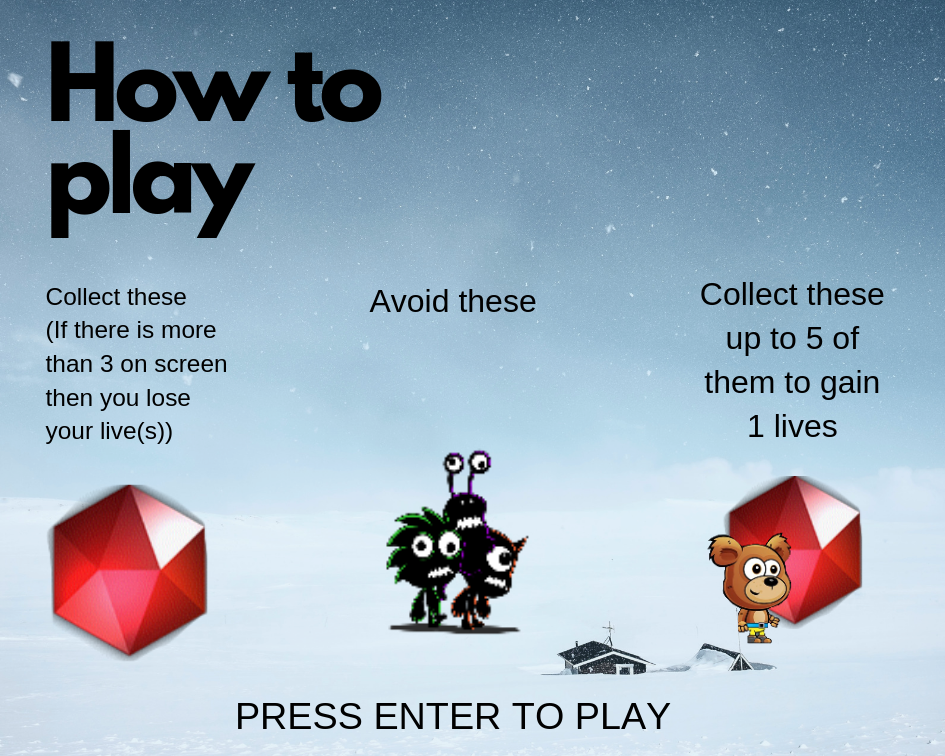
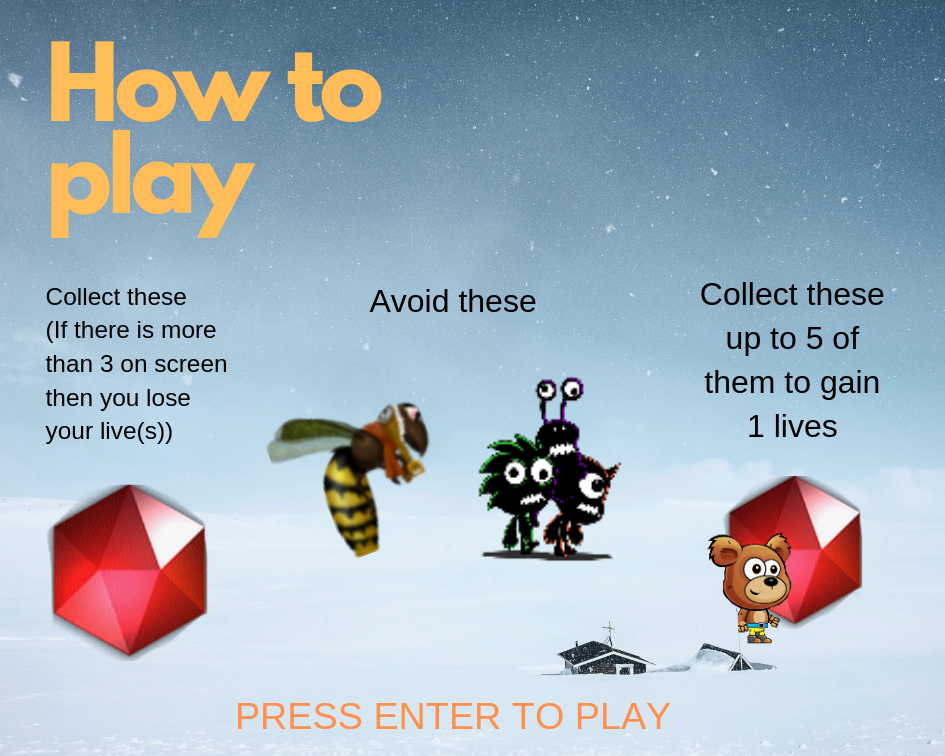
better menu layout

Changed region(s): [[0.2762, 0.4868, 0.6751, 0.8519], [0.0307, 0.0304, 0.4296, 0.3347], [0.2455, 0.9127, 0.7058, 0.9735]]

diff --git a/bear.py b/bear.py
@@ -63,7 +63,14 @@ class LOGOSprite:
         self.sprite = arcade.Sprite('images/GAME LOGO.png',scale = 0.4)
     def draw(self,x,y):
         self.sprite.set_position(x,y)
-        self.sprite.draw()        
+        self.sprite.draw()
+
+class WaspSprite:
+    def __init__(self):
+        self.sprite = arcade.Sprite('images/wasp.png',scale = 1)
+    def draw(self,x,y):
+        self.sprite.set_position(x,y)
+        self.sprite.draw()           
     
 
 class BearWindow(arcade.Window):
@@ -101,6 +108,10 @@ class BearWindow(arcade.Window):
         self.logo.center_x = SCREEN_WIDTH - 100
         self.logo.center_y = SCREEN_HEIGHT - 100
 
+        self.wasp = WaspSprite()
+        self.wasp.center_x = SCREEN_WIDTH - 100
+        self.wasp.center_y = SCREEN_HEIGHT - 100
+
         self.jump_sound = arcade.sound.load_sound("sounds/phaseJump1.wav")
 
         self.background = arcade.load_texture("images/BG.png")
@@ -123,6 +134,10 @@ class BearWindow(arcade.Window):
         for i in self.world.menulist:
             self.menu_sprite.draw(i.x,i.y)
 
+    def draw_wasp(self):
+        for i in self.world.wasp:
+            self.wasp.draw(i.x,i.y)
+
     def draw_game_elements(self):
         start_x = 100
         start_y = 1100
@@ -135,10 +150,12 @@ class BearWindow(arcade.Window):
         self.draw_plat()   
         self.draw_enemy()
         self.draw_diamond()
+        self.draw_wasp()
 
         if self.world.bear.die == 1:
             if self.world.session != 0:
-                arcade.draw_text(f"Remaining Lives = {self.world.lives + 2}", 553, 700, arcade.color.BLACK, 60)
+                arcade.draw_rectangle_filled(SCREEN_WIDTH//2, SCREEN_HEIGHT//2, 1200, 650, arcade.color.BLACK)
+                arcade.draw_text(f"Remaining Lives = {self.world.lives + 2}", 553, 700, arcade.color.YELLOW, 60)
                 arcade.draw_text(f"Remaining Lives = {self.world.lives + 2}", 553, 700, arcade.color.YELLOW, 59)
                 if self.world.lives == -2:
                     arcade.draw_text(f"You survived for {int(self.world.time)//60}:{int(self.world.time)%60:.1f}!!!", 553, 700, arcade.color.BLACK, 60)
@@ -157,10 +174,12 @@ class BearWindow(arcade.Window):
 
         if self.world.start1 == "MAIN":
             self.logo.draw(SCREEN_WIDTH//2, (SCREEN_HEIGHT//2 + 300))
+            arcade.draw_rectangle_filled(SCREEN_WIDTH//2, SCREEN_HEIGHT//2-200, 1300, 60, arcade.color.BLACK)
+            arcade.draw_rectangle_filled(SCREEN_WIDTH//2, SCREEN_HEIGHT//2-335, 1300, 85, arcade.color.BLACK)
             arcade.draw_text(f"PRESS ENTER TO", 682, 500, arcade.color.BLACK, 60)
             arcade.draw_text(f"PRESS ENTER TO", 682, 500, arcade.color.RED, 59)
-            arcade.draw_text(f"PRESS DOWN for HOW TO PLAY", 432, 212, arcade.color.BLACK, 60)
-            arcade.draw_text(f"PRESS DOWN for HOW TO PLAY", 430, 210, arcade.color.BLUE, 60)
+            arcade.draw_text(f"PRESS DOWN for HOW TO PLAY", 432, 212, arcade.color.RED, 60)
+            arcade.draw_text(f"PRESS DOWN for HOW TO PLAY", 430, 210, arcade.color.WHITE, 60)
             self.draw_menulist()
 
         if self.world.start1 == "START":

diff --git a/models.py b/models.py
@@ -132,15 +132,32 @@ class Diamond:
         self.vy = 0
         self.pow = 1
     def update(self, delta):
+        self.x = self.x
+        self.y = self.y
+    
+    def hit_bear2(self):
+        if self.x-60 <= self.world.bear.x <= self.x+60:
+            if self.y-60 <= self.world.bear.y <= self.y+60:
+                return True
+        else:
+            return False
+
+class Wasp:
+    def __init__(self, world, x, y):
+        self.world = world
+        self.x = x
+        self.y = y
+        self.vx = 0
+        self.vy = 0
+    def update(self, delta):
         if self.check_enemy():
             self.world.bear.die = 1
         else:
             self.x = self.x
             self.y = self.y
-    
-    def hit_bear2(self):
-        if self.x-60 <= self.world.bear.x <= self.x+60:
-            if self.y-60 <= self.world.bear.y <= self.y+60:
+    def hit_bear3(self):
+        if self.x-42 <= self.world.bear.x <= self.x+42:
+            if self.y-40 <= self.world.bear.y <= self.y+40:
                 return True
         else:
             return False
@@ -171,6 +188,7 @@ class World:
         self.enemy = []
         self.diamond = []
         self.menulist = []
+        self.wasp = []
         self.time = 0
         self.session = 0
         self.lives = 6
@@ -178,7 +196,7 @@ class World:
         self.start1 = MENU[2]
         self.getlife = 0
         
-        self.menulist.append(MenuStart(self, 1024,400))
+        self.menulist.append(MenuStart(self, 1024,375))
 
         self.platform.append(Platform(self, 0, 100))
         self.platform.append(Platform(self, 607, 100))
@@ -193,6 +211,7 @@ class World:
             n1 += 200
         self.platform.append(Platform(self, n1, n2))
         self.enemy.append(Enemy(self, n1+n3, n2+53))
+        self.wasp.append(Wasp(self, n1+n2, n2+n3))
     
     def check_bear_on_plat(self):
         check_list = []
@@ -211,6 +230,12 @@ class World:
         for dia in self.diamond:
             cl3.append(dia.hit_bear2())
         return True in cl3
+
+    def wasp_on_bear(self):
+        cl4 = []
+        for wasp in self.wasp:
+            cl4.append(wasp.hit_bear3())
+        return True in cl4
     
     def on_key_press(self,key,key_modifier):
         self.bear.on_key_press(key,key_modifier)
@@ -247,8 +272,15 @@ class World:
         
         for i in range(len(self.enemy)):
             self.enemy[i].y -= 2
+
+        for i in range(len(self.wasp)):
+            self.wasp[i].y -= 4
         
         if self.ene_on_bear():
+            self.bear.die = 1
+            self.getlife = 0
+
+        if self.wasp_on_bear():
             self.bear.die = 1
             self.getlife = 0
 
